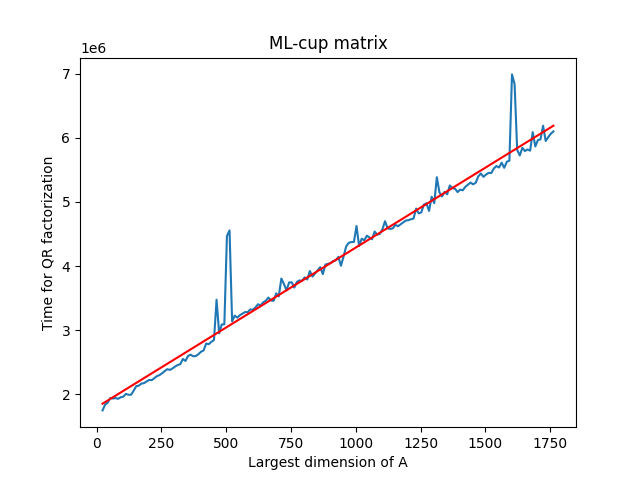
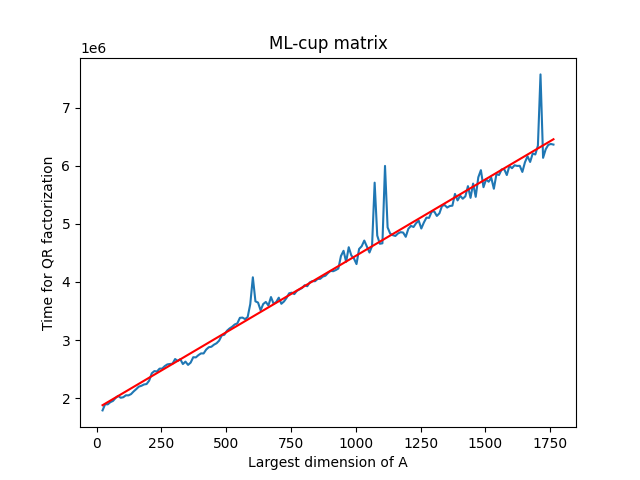
Applied change of Poloni e-mail: modified way to compute x without compute the inverse of R, update image, added line in table results, added experiment on test_qr

diff --git a/report/report.tex b/report/report.tex
@@ -152,7 +152,7 @@ The Algorithm 1 performs the CG method applied to our function \eqref{eq:cgfunct
 \end{algorithmic}
 \end{algorithm}
 \subsection{QR factorization method code}\label{subsec:qr-code}
-In line 6 of Algorithm 4, we used \textit{scipy.linalg.lapack.dtrtri} to compute the inverse of \textit{R}, which is the optimized method for upper-triangular matrices.
+In line 6 of Algorithm 4, we used \textit{scipy.linalg.solve\_triangular} to compute the solution of the linear system $R_{1}x = Q_{1}^{T}b$ by back-substitution, where $Q_{1}^{T}b$ is the vector computed by implicit product.
  % Householder reflector pseudocode
 \makeatletter
 \def\BState{\State\hskip-\ALG@thistlm}
@@ -222,10 +222,11 @@ Moreover, for the QR factorization, we are going to test how the computational c
         \caption{Results for ML-cup}
         \label{tab:table4}
         \begin{tabular}{l|c|c|c|c|r}
-            \textbf{method} & \textbf{Time [ns]} & \textbf{Space [bytes]} & $\|\textbf{Ax - b}\|$ & $\|\textbf{A}^{T}(\textbf{Ax} - \textbf{b})\|$ & $\|\textbf{Q}^{T}\textbf{(Ax - b)}\|$\\
+            \textbf{method} & \textbf{Time [ns]} & \textbf{Space [bytes]} & $\frac{\|\textbf{Ax - b}\|}{\left\lVert b \right\rVert}$ & $\|\textbf{A}^{T}(\textbf{Ax} - \textbf{b})\|$ & $\|\textbf{Q}^{T}\textbf{(Ax - b)}\|$\\
             \hline
             CG & 1557500 & 15040 & 348.20 & 7.86e-03 & - \\
-            QR & 6298970 & 322736 & 348.20 & 3.83e-05 & 2.79e-07
+            QR & 5813172 & 322736 & 0.4369 & 1.4766e-07 & 1.6231-e09 \\
+            np.linalg.qr & 1308946 & 328992 & 0.4369 & 2.3783e-07 & 1.6379e-09
         \end{tabular}
     \end{center}
 \end{table}
@@ -238,6 +239,7 @@ The CG method is $\sim 4$ times faster than the QR method: for the QR method we 
 With space we mean the additional number of bytes used by the methods in addition to the inputs, we measured it with \textit{numpy.array.nbytes}.
 The space used by the QR method, if we assume that we don't want to preserve the input matrix A (that will become the upper triangular matrix R), is the number of bytes needed to save the n $v_{i}$'s vector of floats with length in [1765, 1743], and it is $\sim 1725 \times 23 \times 8$.
 The computation to calculate x is done "in place", so no more space is required.
+There is a little difference between the space used by our implementation and the one of numpy, because we don't form the matrix $Q$ of size $m \times n$, but we have $n$ vector of size $m, m-1, \dots, m-n$.
 The CG method stores five $n$-vectors ($x, d, g, g_{i-1}$ and $g_{i-2}$) and one $m$-vector ($r$) for each iteration but since we don't need to keep whole ‘history’ we can rewrite them every time.
 So the total space for CG is $(23\times5 + 1765)\times8 = 15040$.
 If we assume to have a RAM of 4 GB and we fix $n$, we can compute the maximum computable dimension of m that we call $M$.

diff --git a/test_qr.py b/test_qr.py
@@ -9,6 +9,7 @@ from numpy.linalg import lstsq
 from utils import conditioning_angle
 from psutil import virtual_memory
 from numpy.linalg import lstsq
+from scipy.linalg import solve_triangular
 
 # Parameters:
 # Number of tries to compute mean
@@ -34,14 +35,19 @@ assert np.isclose(check.min(), A.min()) and np.isclose(check.max(), A.max())
 print("Condition number of random matrix with same dimension and range of values of A is " + str(np.linalg.cond(check)))
 
 # Compute solution
-print("********** COMPUTE SOLUTION **********")
+print("********** COMPUTE SOLUTION WITH LIBRARY**********")
 # Library solution
 start = time.monotonic_ns()
 Q, R = np.linalg.qr(A)
-x_np = np.matmul(np.linalg.inv(R), np.matmul(Q.T, b))
+# x_np = np.matmul(np.linalg.inv(R), np.matmul(Q.T, b))
+x_np = solve_triangular(R, np.matmul(Q.T, b))
 done = time.monotonic_ns()
 elapsed = done - start
 print("numpy.linalg.qr: ns spent: ", elapsed)
+print("||Ax - b||/||b|| =", np.divide(norm(np.matmul(A, x_np) - b), norm(b)))
+print("||A^T(Ax - b)||", norm(np.matmul(A.T, np.matmul(A, x_np) - b)))
+print("||Q^T (Ax - b)||", norm(np.matmul(Q.T, np.matmul(A, x_np) - b)))
+print("Space used by Q and R: ", Q.nbytes+R.nbytes)
 # x_np = np.matmul(np.linalg.inv(R), np.matmul(Q.T, b))
 
 # Our solution 6090093 6046052 6604075 5895389 7058815 6167695
@@ -59,7 +65,7 @@ qr_tries = qr_tries[100:]
 print(qr_tries.mean())
 
 assert np.isclose(norm(x-x_np), 0, atol=1.e-5)
-
+print("********** COMPUTE SOLUTION WITH OUR IMPLEMENTATION **********")
 print("our implementation: ns spent: ", elapsed)
 print("||Ax - b|| = ", norm(np.matmul(A, x) - b))
 print("||Ax - b||/||b|| =", np.divide(norm(np.matmul(A, x) - b), norm(b)))

diff --git a/qr_householder.py b/qr_householder.py
@@ -1,6 +1,7 @@
 import numpy as np
 from utils import norm, row_to_column, column_to_row
 import scipy.linalg.lapack as sy
+from scipy.linalg import solve_triangular
 import sys
 
 def householder_vector(x):
@@ -96,6 +97,7 @@ def qr_method(A_, b_):
         x[j:] = x[j:] - aux2  # b - 2*vi*vi^T*b
 
     # R_inv = np.linalg.inv(R)
-    R_inv = sy.dtrtri(R)[0]
-    x = np.matmul(R_inv, x[:n])
+    # R_inv = sy.dtrtri(R)[0]
+    # x = np.matmul(R_inv, x[:n])
+    x = solve_triangular(R, x[:n])
     return x
